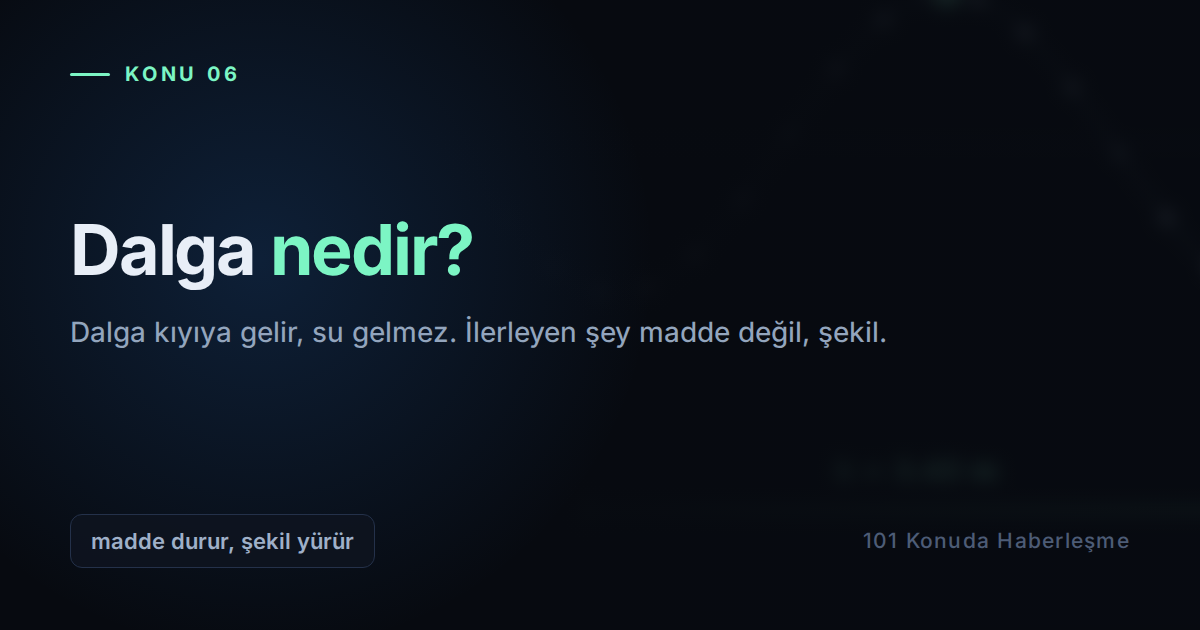
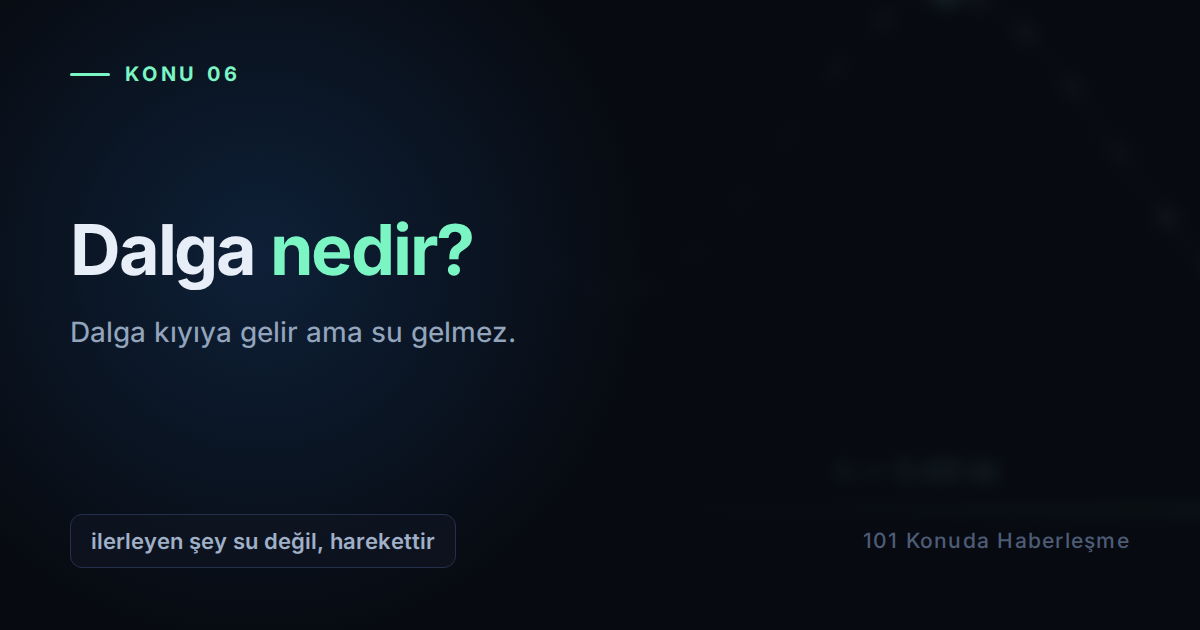
Add files via upload

Changed region(s): [[0.2467, 0.5127, 0.74, 0.5429], [0.0617, 0.8444, 0.37, 0.8746]]

diff --git a/06-dalga-nedir.html b/06-dalga-nedir.html
@@ -4,19 +4,19 @@
 <meta charset="utf-8">
 <meta name="viewport" content="width=device-width, initial-scale=1">
 <title>Dalga nedir?</title>
-<meta name="description" content="Dalga kıyıya gelir, su gelmez. İlerleyen şey madde değil, şekil.">
+<meta name="description" content="Dalga kıyıya gelir ama su gelmez. İlerleyen şey su değil, suda ilerleyen harekettir.">
 <meta property="og:site_name" content="101 Konuda Haberleşme">
 <meta property="og:locale" content="tr_TR">
 <meta property="og:type" content="article">
 <meta property="og:title" content="Dalga nedir? · 101 Konuda Haberleşme">
-<meta property="og:description" content="Dalga kıyıya gelir, su gelmez. İlerleyen şey madde değil, şekil.">
+<meta property="og:description" content="Dalga kıyıya gelir ama su gelmez. İlerleyen şey su değil, suda ilerleyen harekettir.">
 <meta property="og:url" content="https://qualimodo.github.io/haberlesme/06-dalga-nedir.html">
 <meta property="og:image" content="https://qualimodo.github.io/haberlesme/og-06.png">
 <meta property="og:image:width" content="1200">
 <meta property="og:image:height" content="630">
 <meta name="twitter:card" content="summary_large_image">
 <meta name="twitter:title" content="Dalga nedir? · 101 Konuda Haberleşme">
-<meta name="twitter:description" content="Dalga kıyıya gelir, su gelmez. İlerleyen şey madde değil, şekil.">
+<meta name="twitter:description" content="Dalga kıyıya gelir ama su gelmez. İlerleyen şey su değil, suda ilerleyen harekettir.">
 <meta name="twitter:image" content="https://qualimodo.github.io/haberlesme/og-06.png">
 <style>
   :root{
@@ -106,17 +106,7 @@
     canvas{height:320px} .skor{grid-template-columns:1fr}
     .knob{gap:12px} .sep{display:none} .lvl{min-width:0;flex:1;text-align:left}
   }
-  .gez{display:grid;grid-template-columns:1fr 1fr;gap:12px;margin-top:54px}
-  .gez a,.gez .yok{display:flex;flex-direction:column;gap:6px;text-decoration:none;
-    background:var(--panel);border:1px solid var(--line);border-radius:14px;padding:18px 20px;
-    transition:.16s}
-  .gez a:hover{background:var(--panel2);border-color:#33455f;transform:translateY(-1px)}
-  .gez .e{font-size:11.5px;letter-spacing:.12em;text-transform:uppercase;color:var(--dim2);font-weight:700}
-  .gez .b{font-size:17px;font-weight:660;color:var(--ink);letter-spacing:-.012em;line-height:1.3}
-  .gez a:hover .b{color:var(--acc)}
-  .gez .son{text-align:right}
-  .gez .yok{opacity:.42} .gez .yok .b{color:var(--dim)}
-  @media (max-width:640px){ .gez{grid-template-columns:1fr} .gez .son{text-align:right} }
+ }
 </style>
 </head>
 <body>
@@ -125,7 +115,7 @@
   <div class="kick">101 Konuda Haberleşme · Konu 06</div>
   <h1>Dalga nedir?</h1>
   <p>Denizdeki şamandıra kıyıya doğru gitmez, sadece iner çıkar. İlerleyen şey su değil,
-     suyun üstündeki harekettir. Kablosuz haberleşmenin tek taşıyıcısı bu.</p>
+     suyun üstündeki harekettir. Kablosuz haberleşmenin taşıyıcısı da işte bu harekettir.</p>
 </header>
 
 <main class="wrap">
@@ -160,24 +150,26 @@
   <p class="lead">Turuncu noktayı izle. Sonra yeşil tepe işaretini izle.</p>
   <div class="parts">
     <div class="part" style="--pc:#ffc061">
-      <h3>Turuncu nokta: madde</h3>
-      <p>Bu nokta suyun bir damlası. Kesikli çizgiden hiç ayrılmıyor, sadece <b>iner ve çıkar</b>.</p>
-      <p>Dalga geçip gittikten sonra da başladığı yerde durur.</p>
+      <h3>Turuncu nokta suyu gösterir</h3>
+      <p>Bu nokta, suyun bir damlasıdır. Kesikli çizgiden hiç ayrılmaz ve yalnızca
+        <b>yukarı aşağı</b> hareket eder.</p>
+      <p>Dalga geçip gittikten sonra da başladığı yerde durmaya devam eder.</p>
     </div>
     <div class="part" style="--pc:#7cf5c4">
-      <h3>Yeşil işaret: şekil</h3>
-      <p>Bu işaret bir tepenin üstünde duruyor ve tepeyle birlikte sağa doğru ilerliyor.</p>
-      <p>İlerleyen şey işte budur: madde değil, <b>şekil</b>.</p>
+      <h3>Yeşil işaret hareketi gösterir</h3>
+      <p>Bu işaret bir tepenin üstünde durur ve tepeyle birlikte sağa doğru gider.</p>
+      <p>Dalga dediğimiz şey, suda ilerleyen <b>bu harekettir</b>.</p>
     </div>
     <div class="part" style="--pc:#86b6ef">
-      <h3>Sürgü: frekans</h3>
-      <p>Sürgüyü sağa çektiğinde noktalar daha sık inip çıkar, dalgalar sıklaşır.</p>
-      <p>Dikkat et: <b>hız değişmiyor</b>. Yeşil işaret her zaman aynı tempoda ilerliyor.</p>
+      <h3>Frekans sürgüsü</h3>
+      <p>Frekans yükseldiğinde noktalar daha sık inip çıkar ve dalgalar birbirine yaklaşır.</p>
+      <p>Şuna dikkat et: <b>hız hiç değişmez</b>. Yeşil işaret her zaman aynı tempoda ilerler.</p>
     </div>
     <div class="part" style="--pc:#cde2fb">
       <h3>Ortam düğmeleri</h3>
-      <p>Aynı frekans, farklı ortamda farklı dalga boyu verir. Çünkü her ortamda hız farklıdır.</p>
-      <p>100 Hz havada 3.43 metre, suda <b>14.8 metre</b> uzunluğundadır.</p>
+      <p>Aynı frekans, farklı ortamda farklı bir dalga boyu verir. Sebebi şudur: her ortamda
+        dalganın hızı farklıdır.</p>
+      <p>Yüz hertzlik bir ses havada 3.43 metre, suda ise <b>14.8 metre</b> uzunluğundadır.</p>
     </div>
   </div>
 
@@ -187,14 +179,7 @@
     <button class="t3" data-l="3">L3 · Mühendis</button>
   </div>
   <div id="metin"></div>
-  <nav class="gez">
-    <a href="05-atesten-5g-ye-kisa-tarih.html"><span class="e">← Önceki konu</span><span class="b">Ateşten 5G'ye kısa tarih</span></a>
-    <span class="yok son"><span class="e">Sıradaki konu · yakında</span><span class="b">Frekans, dalga boyu, genlik, faz</span></span>
-  </nav>
-
-
-
-  <footer>
+<footer>
     Ekrandaki hareket, izlenebilsin diye çok yavaşlatılmıştır; oranlar korunur. Dalga boyu
     ve periyot değerleri gerçektir ve λ = v ⁄ f bağıntısından hesaplanır. Kullanılan hızlar:
     havada ses 343 m/s (20 °C), suda ses 1480 m/s (20 °C), boşlukta elektromanyetik dalga
@@ -397,33 +382,34 @@ const METIN = {
        da kıyıya gidiyor mu?`,
       `Gitmiyor. Sadece <b>iniyor ve çıkıyor</b>. Dalga geçip gittikten sonra bile aynı yerde
        duruyor.`,
-      `Yukarıdaki turuncu nokta o şamandıra. Kesikli çizgiden hiç ayrılmıyor. Yeşil işaret ise
-       bir tepenin üstünde duruyor ve tepeyle birlikte sağa doğru ilerliyor.`,
-      `Dalga işte bu: <b>madde durur, şekil yürür.</b> Su ilerlemez; ilerleyen şey suyun
-       üstündeki harekettir.`,
-      `Sürgüyü çektiğinde nokta daha sık inip çıkar ve dalgalar sıklaşır. Yeşil işaretin
-       hızına dikkat et: hiç değişmiyor.`],
-   n:'Kablosuz haberleşmenin tamamı bu fikrin üstüne kurulu. Antenden çıkan şey madde değil, hareketin kendisidir.'},
+      `Yukarıdaki turuncu nokta o şamandıradır. Kesikli çizgiden hiç ayrılmaz. Yeşil işaret
+       ise bir tepenin üstünde durur ve tepeyle birlikte sağa doğru gider.`,
+      `Dalganın tanımı buradan çıkar. <b>İlerleyen şey su değil, suda ilerleyen harekettir.</b>
+       Suyun kendisi bulunduğu yerde kalır.`,
+      `Frekansı yükselttiğinde nokta daha sık inip çıkar ve dalgalar birbirine yaklaşır.
+       Yeşil işaretin hızına dikkat et; o hiç değişmez.`],
+   n:'Kablosuz haberleşmenin tamamı bu fikrin üstüne kuruludur. Antenden çıkan şey madde değildir; antenden çıkan şey hareketin kendisidir.'},
 
 2:{b:'Üç sayı, tek bağıntı',
-   p:[`Bir dalgayı üç sayı anlatır: <b>frekans</b> saniyede kaç kez inip çıktığı,
-       <b>dalga boyu</b> iki tepe arasındaki mesafe, <b>hız</b> ise tepenin ilerleme hızıdır.`,
-      `Üçü bağımsız değildir. Aralarındaki bağıntı şudur:`,
+   p:[`Bir dalgayı üç sayı anlatır. <b>Frekans</b>, bir noktanın saniyede kaç kez inip
+       çıktığıdır. <b>Dalga boyu</b>, iki tepe arasındaki mesafedir. <b>Hız</b> ise tepenin
+       ilerleme hızıdır.`,
+      `Bu üçü birbirinden bağımsız değildir. Aralarındaki bağıntı şudur:`,
       `<div class="form">dalga boyu = hız ÷ frekans      λ = v / f</div>`,
       `Hız ortamın özelliğidir; onu sen seçmezsin. Havada ses saniyede 343 metre gider, suda
        1480 metre. Radyo dalgası boşlukta saniyede yaklaşık <b>300 000 kilometre</b> gider.`,
-      `Bu yüzden frekansı iki katına çıkarınca dalga boyu yarıya iner. Hız sabit kaldığı için
-       başka türlüsü mümkün değildir.`,
-      `Sayılar çarpıcı olabilir. Wi-Fi'ın 2.4 GHz'lik dalgası <b>12.5 santimetre</b>
-       uzunluğundadır. La notası (440 Hz) havada <b>78 santimetre</b>. İnsanın duyabildiği
-       en tiz ses ise sadece 1.7 santimetre.`],
-   n:'Anten boyunun neden dalga boyuyla ölçüldüğünü serinin 29. konusunda göreceğiz. Cebindeki telefonun anteni birkaç santimetredir, çünkü kullandığı dalga da birkaç santimetredir.'},
+      `Bu yüzden frekans iki katına çıktığında dalga boyu yarıya iner. Hız sabit kaldığına
+       göre başka türlüsü mümkün değildir.`,
+      `Çıkan sayılar bazen şaşırtıcıdır. Wi-Fi'ın 2.4 GHz'lik dalgası <b>12.5 santimetre</b>
+       uzunluğundadır. La notası havada 78 santimetre olur. İnsanın duyabildiği en tiz ses
+       ise sadece 1.7 santimetre uzunluğundadır.`],
+   n:'Anten boyunun neden dalga boyuyla ölçüldüğünü serinin 29. konusunda kuracağız. Cebindeki telefonun anteni birkaç santimetredir, çünkü taşıdığı dalga da birkaç santimetre uzunluğundadır.'},
 
 3:{b:'Dalga denklemi ve iki ayrı hız',
    p:[`Tek boyutlu bir ortamda yayılan dalga, ikinci mertebeden şu denklemi sağlar:`,
       `<div class="form">∂²u/∂t² = v² · ∂²u/∂x²</div>`,
-      `Genel çözümü <b>u(x,t) = f(x − vt) + g(x + vt)</b> biçimindedir; yani şekil bozulmadan
-       sağa ve sola ilerler. Sinüs çözümü bunun özel hâlidir ve
+      `Genel çözümü <b>u(x,t) = f(x − vt) + g(x + vt)</b> biçimindedir. Bunun anlamı şudur:
+       dalganın biçimi bozulmadan sağa ve sola ilerler. Sinüs çözümü bunun özel hâlidir ve
        <b>u = A·sin(kx − ωt + φ)</b> ile yazılır. Burada k = 2π/λ dalga sayısı,
        ω = 2πf açısal frekanstır; faz hızı ise <b>v = ω/k</b> olur.`,
       `Ortamın hızı fizikten gelir. Gerilmiş bir telde v = √(T/μ), ideal gazda
@@ -431,12 +417,13 @@ const METIN = {
       `Bu sayfadaki üç ortam da <b>dağılımsızdır</b>: hız frekanstan bağımsızdır, dolayısıyla
        λ = v/f her frekansta geçerlidir. Dağılımlı ortamlarda durum değişir ve faz hızı ile
        <b>grup hızı</b> ayrışır: v<sub>g</sub> = dω/dk. Bilgi grup hızıyla taşınır, faz hızıyla değil.`,
-      `Deniz dalgaları bu ayrımın en tanıdık örneğidir. Derin suda v = √(gλ/2π) olduğundan
-       uzun dalgalar hızlı gider ve grup hızı faz hızının yarısıdır. Bu yüzden bir dalga
-       öbeğini izlerken tepelerin öbeğin içinde öne doğru kayıp kaybolduğunu görürsün.`,
-      `Bir ayrım daha var. Buradaki dalga <b>enine</b>dir: parçacıklar yayılma yönüne dik
-       hareket eder. Havadaki ses ise <b>boyuna</b>dır; parçacıklar yayılma yönü boyunca
-       sıkışıp seyrelir. Şekil aynı matematikle tarif edilir, hareketin yönü farklıdır.`],
+      `Deniz dalgaları bu ayrımın en tanıdık örneğidir. Derin suda v = √(gλ/2π) olduğu için
+       uzun dalgalar daha hızlı gider ve grup hızı, faz hızının yarısına düşer. Bir dalga
+       öbeğini izlerken tepelerin öbek içinde öne doğru kayıp kaybolmasının sebebi budur.`,
+      `Bir ayrım daha vardır. Buradaki dalga <b>eninedir</b>; parçacıklar yayılma yönüne dik
+       hareket eder. Havadaki ses ise <b>boyunadır</b>; parçacıklar yayılma yönü boyunca
+       sıkışıp seyrelir. İkisi aynı matematikle tarif edilir, yalnızca hareketin yönü
+       farklıdır.`],
    n:'Elektromanyetik dalganın ortama ihtiyaç duymaması, bu konudaki en büyük kırılmadır. Ses için hava gerekir, ışık için hiçbir şey gerekmez. Bunu serinin 8. konusunda kuracağız.'},
 };
 let katman=1;

diff --git a/02-mesaj-sinyal-kanal-gurultu.html b/02-mesaj-sinyal-kanal-gurultu.html
@@ -114,17 +114,7 @@
     h1{font-size:27px} .wrap{padding:0 15px} header.wrap{padding-top:58px;padding-bottom:18px}
     canvas{height:220px} input[type=text]{width:100%} .knob{gap:12px} .sep{display:none}
   }
-  .gez{display:grid;grid-template-columns:1fr 1fr;gap:12px;margin-top:54px}
-  .gez a,.gez .yok{display:flex;flex-direction:column;gap:6px;text-decoration:none;
-    background:var(--panel);border:1px solid var(--line);border-radius:14px;padding:18px 20px;
-    transition:.16s}
-  .gez a:hover{background:var(--panel2);border-color:#33455f;transform:translateY(-1px)}
-  .gez .e{font-size:11.5px;letter-spacing:.12em;text-transform:uppercase;color:var(--dim2);font-weight:700}
-  .gez .b{font-size:17px;font-weight:660;color:var(--ink);letter-spacing:-.012em;line-height:1.3}
-  .gez a:hover .b{color:var(--acc)}
-  .gez .son{text-align:right}
-  .gez .yok{opacity:.42} .gez .yok .b{color:var(--dim)}
-  @media (max-width:640px){ .gez{grid-template-columns:1fr} .gez .son{text-align:right} }
+ }
 </style>
 </head>
 <body>
@@ -193,14 +183,7 @@
     <button class="t3" data-l="3">L3 · Mühendis</button>
   </div>
   <div id="metin"></div>
-  <nav class="gez">
-    <a href="01-haberlesme-nedir.html"><span class="e">← Önceki konu</span><span class="b">Haberleşme nedir?</span></a>
-    <a class="son" href="03-kablolu-mu-kablosuz-mu.html"><span class="e">Sıradaki konu →</span><span class="b">Kablolu mu, kablosuz mu?</span></a>
-  </nav>
-
-
-
-  <footer>
+<footer>
     Bozulmalar rastgele üretilir. Her taşıyıcının kendi gürültü katsayısı vardır, bu yüzden
     sürgü aynı yerdeyken bile sonuçlar farklı çıkar. Menzil ve hız değerleri tipik
     büyüklüklerdir; gerçek sistemlerde kullanılan güce, frekansa ve donanıma göre değişir.

diff --git a/03-kablolu-mu-kablosuz-mu.html b/03-kablolu-mu-kablosuz-mu.html
@@ -101,17 +101,7 @@
     canvas{height:290px} .skor{grid-template-columns:1fr}
     input[type=text]{width:100%} .knob{gap:12px} .sep{display:none}
   }
-  .gez{display:grid;grid-template-columns:1fr 1fr;gap:12px;margin-top:54px}
-  .gez a,.gez .yok{display:flex;flex-direction:column;gap:6px;text-decoration:none;
-    background:var(--panel);border:1px solid var(--line);border-radius:14px;padding:18px 20px;
-    transition:.16s}
-  .gez a:hover{background:var(--panel2);border-color:#33455f;transform:translateY(-1px)}
-  .gez .e{font-size:11.5px;letter-spacing:.12em;text-transform:uppercase;color:var(--dim2);font-weight:700}
-  .gez .b{font-size:17px;font-weight:660;color:var(--ink);letter-spacing:-.012em;line-height:1.3}
-  .gez a:hover .b{color:var(--acc)}
-  .gez .son{text-align:right}
-  .gez .yok{opacity:.42} .gez .yok .b{color:var(--dim)}
-  @media (max-width:640px){ .gez{grid-template-columns:1fr} .gez .son{text-align:right} }
+ }
 </style>
 </head>
 <body>
@@ -190,14 +180,7 @@
     <button class="t3" data-l="3">L3 · Mühendis</button>
   </div>
   <div id="metin"></div>
-  <nav class="gez">
-    <a href="02-mesaj-sinyal-kanal-gurultu.html"><span class="e">← Önceki konu</span><span class="b">Mesaj, sinyal, kanal, gürültü</span></a>
-    <a class="son" href="04-bilgi-nedir.html"><span class="e">Sıradaki konu →</span><span class="b">Bilgi nedir?</span></a>
-  </nav>
-
-
-
-  <footer>
+<footer>
     Çarpışma olasılığı, her kullanıcının bağımsız ve %10 olasılıkla yayın yaptığı
     varsayımıyla hesaplanıyor. Gerçek sistemler bu çarpışmaları azaltmak için çoklu erişim
     protokolleri kullanır, dolayısıyla buradaki model gerçeğinden daha kötümserdir.

diff --git a/04-bilgi-nedir.html b/04-bilgi-nedir.html
@@ -105,17 +105,7 @@
     canvas{height:300px} .skor{grid-template-columns:1fr}
     .knob{gap:12px} .sep{display:none} .lvl{min-width:0;flex:1}
   }
-  .gez{display:grid;grid-template-columns:1fr 1fr;gap:12px;margin-top:54px}
-  .gez a,.gez .yok{display:flex;flex-direction:column;gap:6px;text-decoration:none;
-    background:var(--panel);border:1px solid var(--line);border-radius:14px;padding:18px 20px;
-    transition:.16s}
-  .gez a:hover{background:var(--panel2);border-color:#33455f;transform:translateY(-1px)}
-  .gez .e{font-size:11.5px;letter-spacing:.12em;text-transform:uppercase;color:var(--dim2);font-weight:700}
-  .gez .b{font-size:17px;font-weight:660;color:var(--ink);letter-spacing:-.012em;line-height:1.3}
-  .gez a:hover .b{color:var(--acc)}
-  .gez .son{text-align:right}
-  .gez .yok{opacity:.42} .gez .yok .b{color:var(--dim)}
-  @media (max-width:640px){ .gez{grid-template-columns:1fr} .gez .son{text-align:right} }
+ }
 </style>
 </head>
 <body>
@@ -190,14 +180,7 @@
     <button class="t3" data-l="3">L3 · Mühendis</button>
   </div>
   <div id="metin"></div>
-  <nav class="gez">
-    <a href="03-kablolu-mu-kablosuz-mu.html"><span class="e">← Önceki konu</span><span class="b">Kablolu mu, kablosuz mu?</span></a>
-    <a class="son" href="05-atesten-5g-ye-kisa-tarih.html"><span class="e">Sıradaki konu →</span><span class="b">Ateşten 5G'ye kısa tarih</span></a>
-  </nav>
-
-
-
-  <footer>
+<footer>
     Şeritteki otuz gün, seçilen orana göre rastgele üretilir; kesikli çizgi ise o oranın
     kuramsal ortalamasını gösterir. Bu yüzden şeritteki günlerin ortalaması çizgiye
     yakın çıkar, tam üstüne oturmaz. Model, günlerin birbirinden bağımsız olduğunu

diff --git a/05-atesten-5g-ye-kisa-tarih.html b/05-atesten-5g-ye-kisa-tarih.html
@@ -112,17 +112,7 @@
     canvas{height:320px} .skor{grid-template-columns:1fr}
     .knob{gap:12px} .sep{display:none} .lvl{min-width:0;flex:1;text-align:left}
   }
-  .gez{display:grid;grid-template-columns:1fr 1fr;gap:12px;margin-top:54px}
-  .gez a,.gez .yok{display:flex;flex-direction:column;gap:6px;text-decoration:none;
-    background:var(--panel);border:1px solid var(--line);border-radius:14px;padding:18px 20px;
-    transition:.16s}
-  .gez a:hover{background:var(--panel2);border-color:#33455f;transform:translateY(-1px)}
-  .gez .e{font-size:11.5px;letter-spacing:.12em;text-transform:uppercase;color:var(--dim2);font-weight:700}
-  .gez .b{font-size:17px;font-weight:660;color:var(--ink);letter-spacing:-.012em;line-height:1.3}
-  .gez a:hover .b{color:var(--acc)}
-  .gez .son{text-align:right}
-  .gez .yok{opacity:.42} .gez .yok .b{color:var(--dim)}
-  @media (max-width:640px){ .gez{grid-template-columns:1fr} .gez .son{text-align:right} }
+ }
 </style>
 </head>
 <body>
@@ -204,14 +194,7 @@
     <button class="t3" data-l="3">L3 · Mühendis</button>
   </div>
   <div id="metin"></div>
-  <nav class="gez">
-    <a href="04-bilgi-nedir.html"><span class="e">← Önceki konu</span><span class="b">Bilgi nedir?</span></a>
-    <span class="yok son"><span class="e">Sıradaki konu · yakında</span><span class="b">Dalga nedir?</span></span>
-  </nav>
-
-
-
-  <footer>
+<footer>
     Yatay eksen sırayı gösterir, ölçekli zamanı göstermez. Ateş zinciri ve semafor hızları,
     o sistemlerin sembol sayısından ve bilinen sembol hızından hesaplandı; sembollerin eşit
     olasılıklı olduğu varsayıldı, dolayısıyla bu değerler üst sınırdır. Modem, ADSL, 4G ve 5G

diff --git a/01-haberlesme-nedir.html b/01-haberlesme-nedir.html
@@ -101,17 +101,7 @@
     input[type=text]{width:100%}
     .knob{gap:12px} .sep{display:none}
   }
-  .gez{display:grid;grid-template-columns:1fr 1fr;gap:12px;margin-top:54px}
-  .gez a,.gez .yok{display:flex;flex-direction:column;gap:6px;text-decoration:none;
-    background:var(--panel);border:1px solid var(--line);border-radius:14px;padding:18px 20px;
-    transition:.16s}
-  .gez a:hover{background:var(--panel2);border-color:#33455f;transform:translateY(-1px)}
-  .gez .e{font-size:11.5px;letter-spacing:.12em;text-transform:uppercase;color:var(--dim2);font-weight:700}
-  .gez .b{font-size:17px;font-weight:660;color:var(--ink);letter-spacing:-.012em;line-height:1.3}
-  .gez a:hover .b{color:var(--acc)}
-  .gez .son{text-align:right}
-  .gez .yok{opacity:.42} .gez .yok .b{color:var(--dim)}
-  @media (max-width:640px){ .gez{grid-template-columns:1fr} .gez .son{text-align:right} }
+ }
 </style>
 </head>
 <body>
@@ -165,14 +155,7 @@
     <button class="t3" data-l="3">L3 · Mühendis</button>
   </div>
   <div id="metin"></div>
-  <nav class="gez">
-    <a href="index.html"><span class="e">← Başlangıç</span><span class="b">Bütün konular</span></a>
-    <a class="son" href="02-mesaj-sinyal-kanal-gurultu.html"><span class="e">Sıradaki konu →</span><span class="b">Mesaj, sinyal, kanal, gürültü</span></a>
-  </nav>
-
-
-
-  <footer>
+<footer>
     Bu sayfadaki bozulmalar gerçekten rastgele üretilir. Sürgüyü her oynattığında her harf,
     seçtiğin olasılıkla bağımsız olarak bozulma riski taşır. Aynı ayarda iki gönderim
     birbirinin aynısı olmaz.

diff --git a/index.html b/index.html
@@ -136,7 +136,7 @@
     <div class="num">06</div>
     <div class="txt">
       <h3>Dalga nedir?</h3>
-      <p>Dalga kıyıya gelir, su gelmez. İlerleyen şey madde değil, şekil.</p>
+      <p>Dalga kıyıya gelir ama su gelmez. İlerleyen şey su değil, suda ilerleyen harekettir.</p>
     </div>
     <div class="go">→</div>
   </a>
